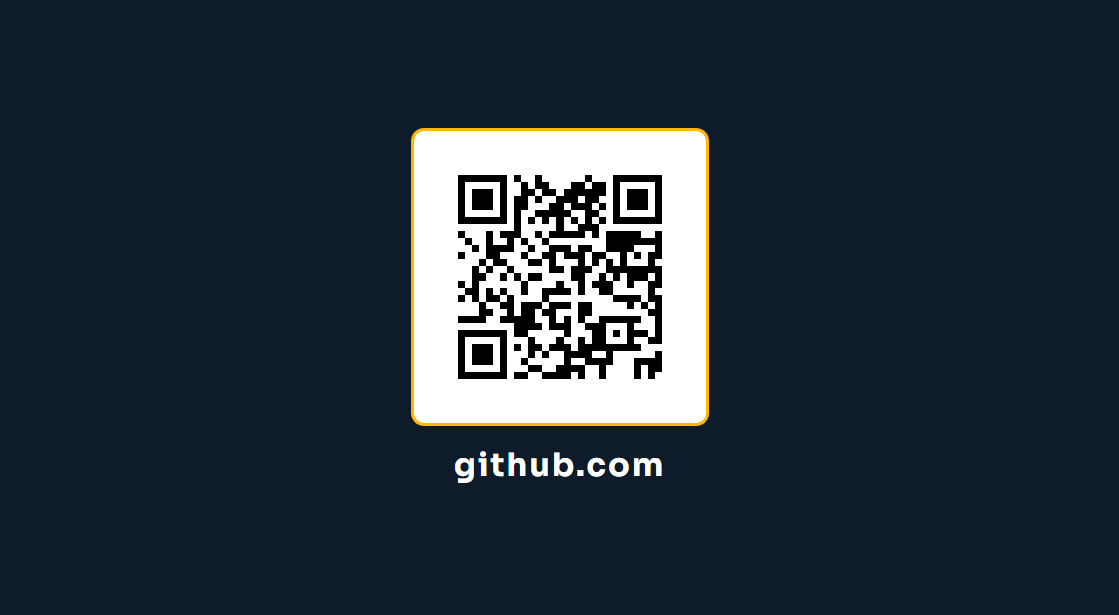
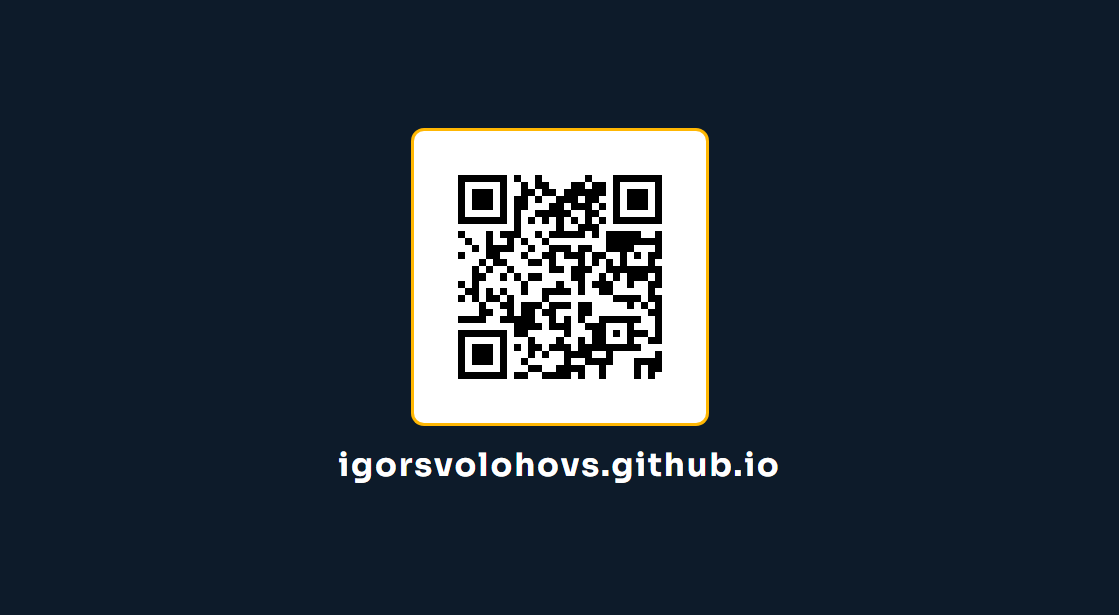
Fix misleading QR caption: was "github.com", QR points elsewhere
All 10 back-side captions read "github.com" while the QR actually
encodes Igor's portfolio site (https://igorsvolohovs.github.io/) - a
leftover from an earlier round of feedback that referred to a GitHub
profile link, never updated after the QR target was switched to the
portfolio site. Scanning would have landed somewhere the caption didn't
promise.

Caption is now the QR's real domain, igorsvolohovs.github.io, driven by
a single QR_CAPTION constant in render_all.py so caption and QR target
can't drift apart again. Re-rendered all 10 backs and re-verified every
one decodes to https://igorsvolohovs.github.io/ with a fresh OpenCV
QRCodeDetector pass.

Changed region(s): [[0.3038, 0.7415, 0.6988, 0.8033]]

diff --git a/experiments/render_all.py b/experiments/render_all.py
@@ -29,6 +29,7 @@ DATA = {
     "tags": ["AI Integration", "Computer Vision", "Robotics"],
 }
 QR_TARGET = "https://igorsvolohovs.github.io/"
+QR_CAPTION = "igorsvolohovs.github.io"  # must match QR_TARGET's actual domain - do not hardcode "github.com"
 
 
 def file_to_data_uri(path: Path, mime: str) -> str:
@@ -160,7 +161,7 @@ def main() -> None:
 
         back_template = env.get_template("template_back_shared.html")
         for slug, style in BACK_STYLES.items():
-            context = dict(qr_uri=qr_uri, caption="github.com")
+            context = dict(qr_uri=qr_uri, caption=QR_CAPTION)
             context.update(style)
             html = back_template.render(**context)
             out_dir = HERE / slug

diff --git a/experiments/README.md b/experiments/README.md
@@ -15,10 +15,11 @@ Following design feedback, the card content is now split across both sides:
   variant-flavored CTA line (e.g. "Portfolio on the back", `// portfolio ->
   flip card`, "SEE SHEET 2 / PORTFOLIO") - no printed URL, since a URL next
   to a QR code that encodes the same URL is redundant.
-- **Back** (previously blank): a single centered QR code with a
-  `github.com` caption underneath, styled per-variant (background, font,
-  frame) via a shared template so all ten stay visually consistent with
-  their front.
+- **Back** (previously blank): a single centered QR code with an
+  `igorsvolohovs.github.io` caption underneath (the QR's actual domain -
+  not "github.com", which would point somewhere else entirely), styled
+  per-variant (background, font, frame) via a shared template so all ten
+  stay visually consistent with their front.
 
 **The photo.** The brief was explicit: use a real photo of Igor or flag it
 and fall back gracefully - never fabricate or substitute a generic image.
